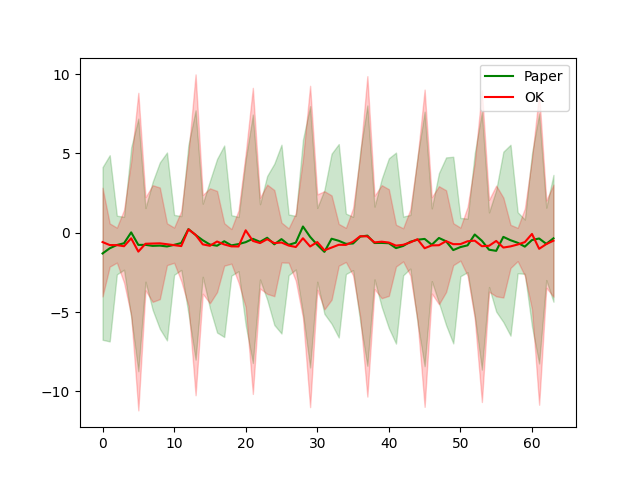
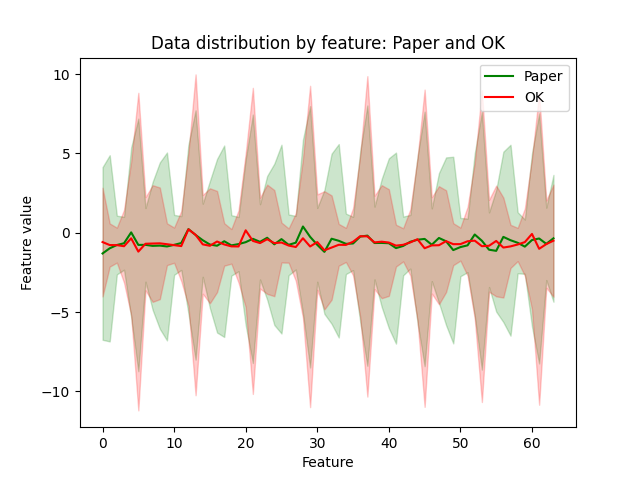
Updated images with labels

Changed region(s): [[0.2188, 0.0625, 0.7812, 0.125], [0.0312, 0.4062, 0.0625, 0.5938], [0.4688, 0.9375, 0.5625, 0.9688]]

diff --git a/models/data_plot.py b/models/data_plot.py
@@ -25,16 +25,19 @@ if __name__ == '__main__':
 
     plt.plot(rock, label = "Rock", color=colors[0])
     plt.plot(scissors, label = "Scissors", color=colors[1])
-    #plt.plot(paper, label = "Paper", color=colors[2])
-    #plt.plot(ok, label = "OK", color=colors[3])
+    plt.plot(paper, label = "Paper", color=colors[2])
+    plt.plot(ok, label = "OK", color=colors[3])
 
     a = 0.2
     scale = 0.3
     plt.fill_between(range(64), rock - scale*r_std, rock + scale*r_std, alpha=a, color=colors[0])
     plt.fill_between(range(64), scissors - scale*s_std, scissors + scale*s_std, alpha=a, color=colors[1])
-    #plt.fill_between(range(64), paper - scale*p_std, paper + scale*p_std, alpha=a, color=colors[2])
-    #plt.fill_between(range(64), ok - scale*o_std, ok + scale*o_std, alpha=a, color=colors[3])
+    plt.fill_between(range(64), paper - scale*p_std, paper + scale*p_std, alpha=a, color=colors[2])
+    plt.fill_between(range(64), ok - scale*o_std, ok + scale*o_std, alpha=a, color=colors[3])
 
+    plt.title('Data distribution by feature: means and std deviations values (all gestures)')
+    plt.ylabel('Feature value')
+    plt.xlabel('Feature')
     plt.legend()
-    plt.savefig("..\\graphs\\Rock_Scissors.png", format="png")
+    plt.savefig("..\\graphs\\means_stdevs.png", format="png")
     plt.show()
